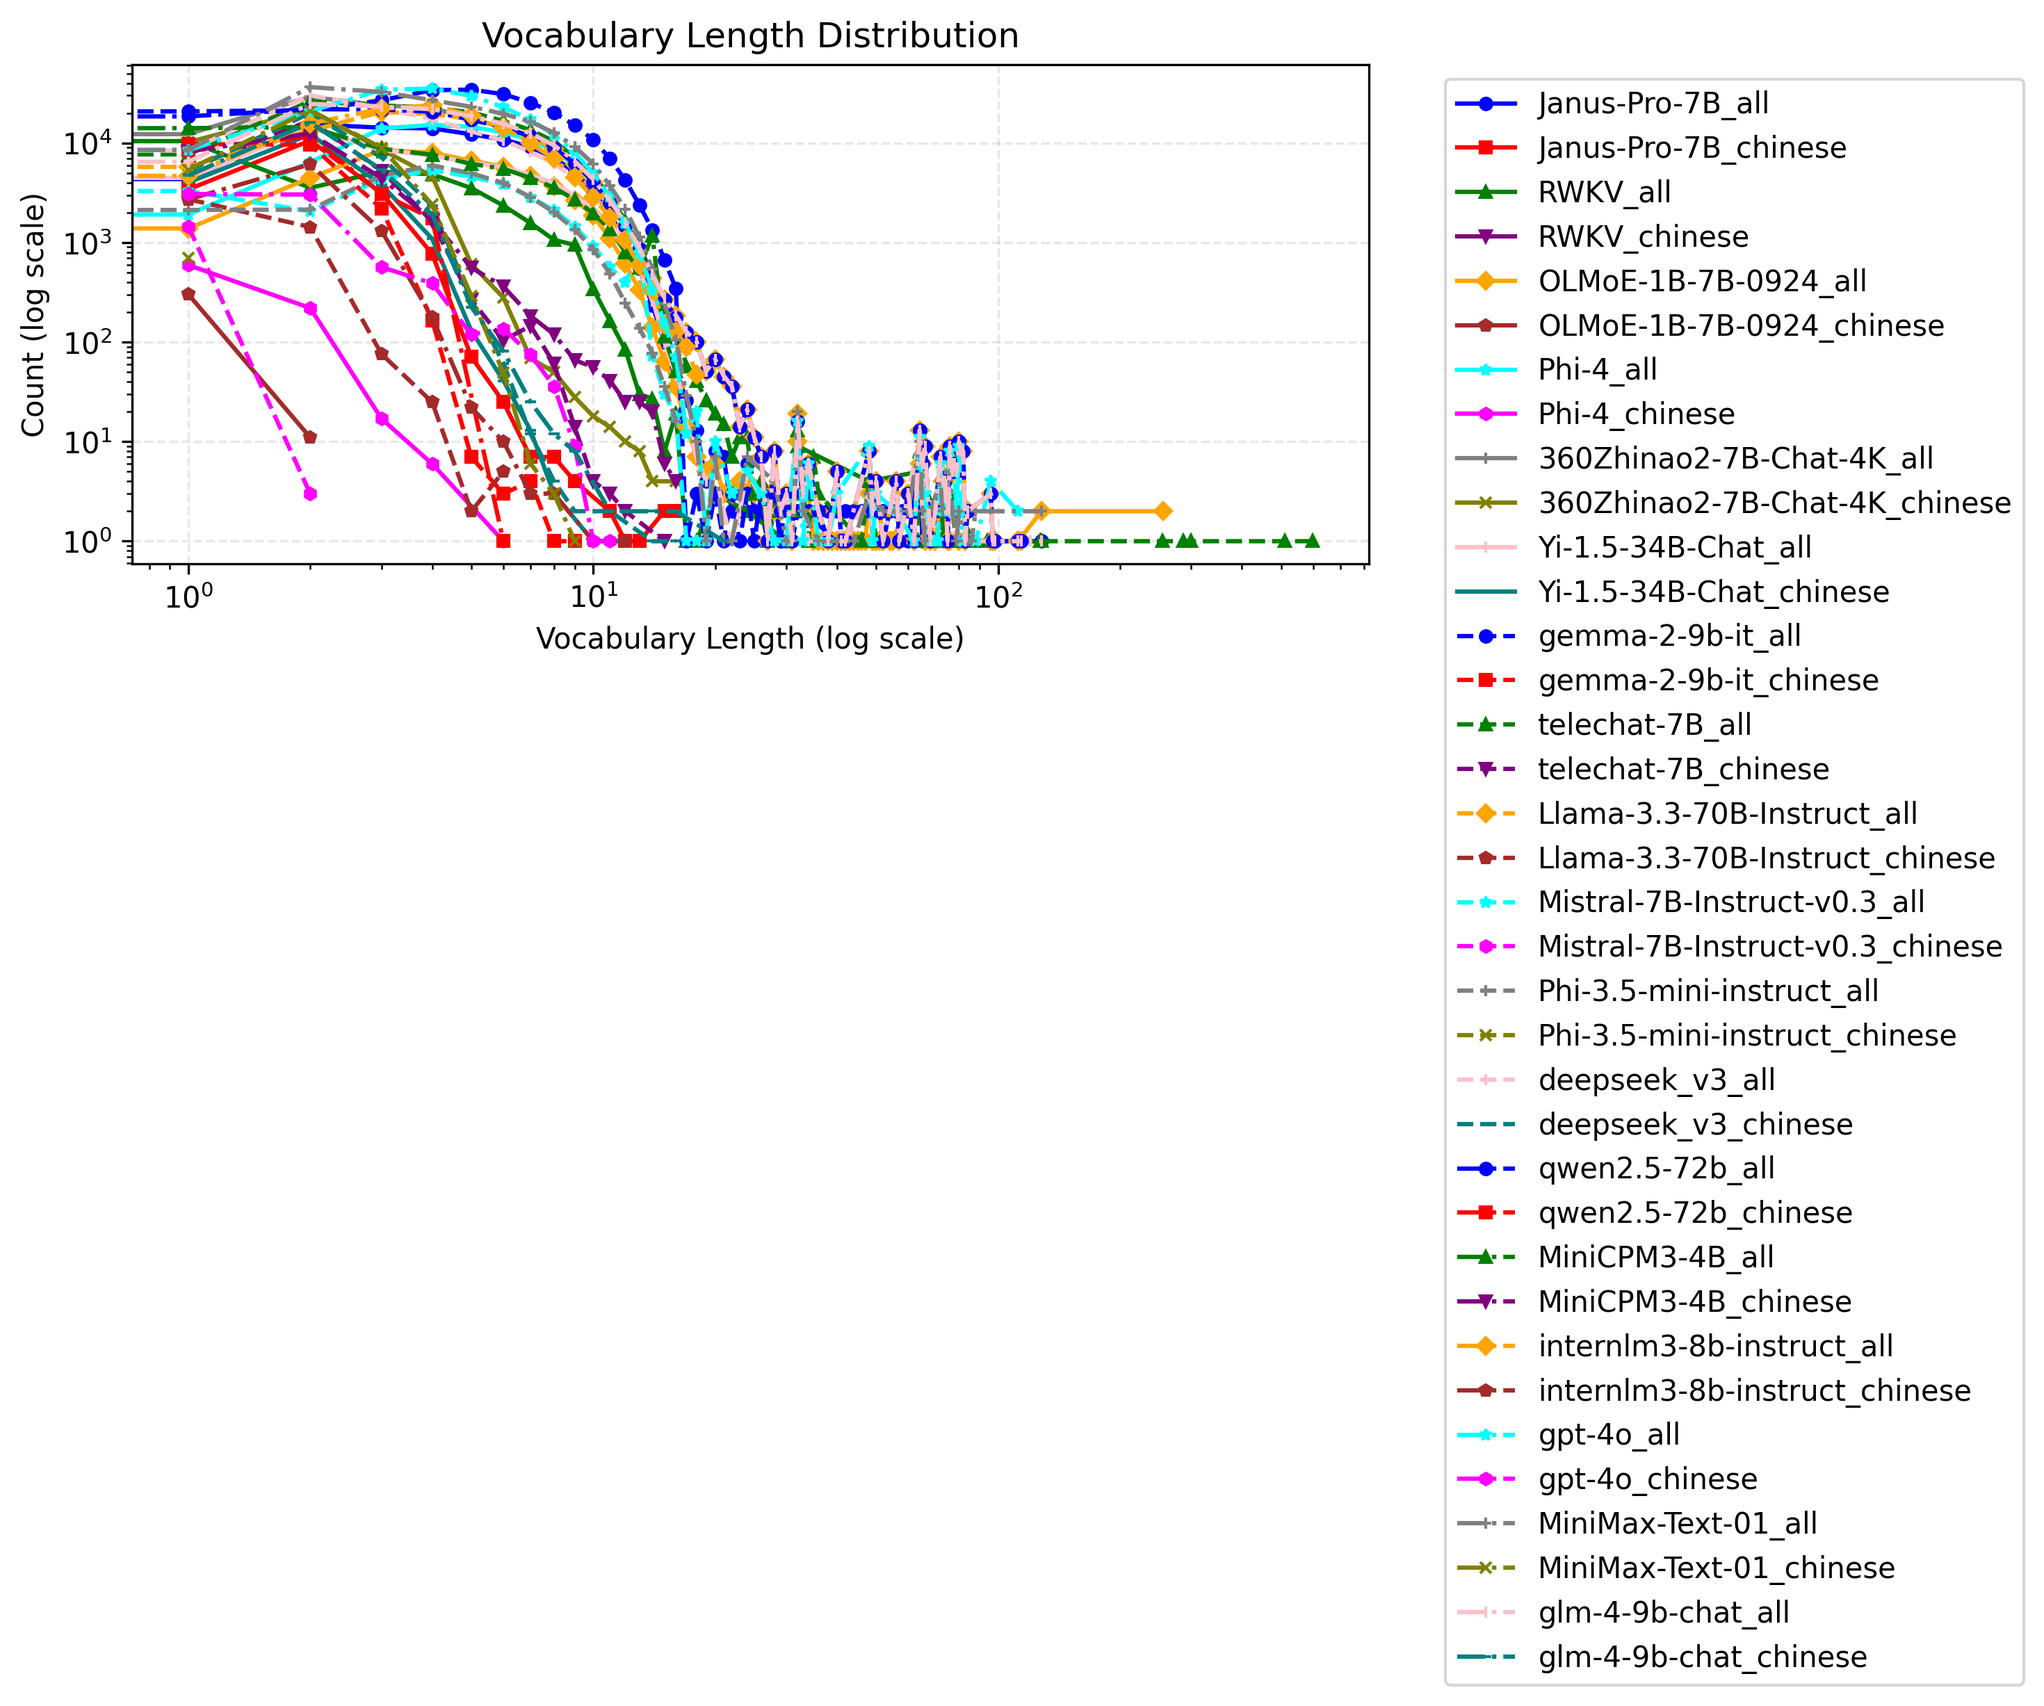
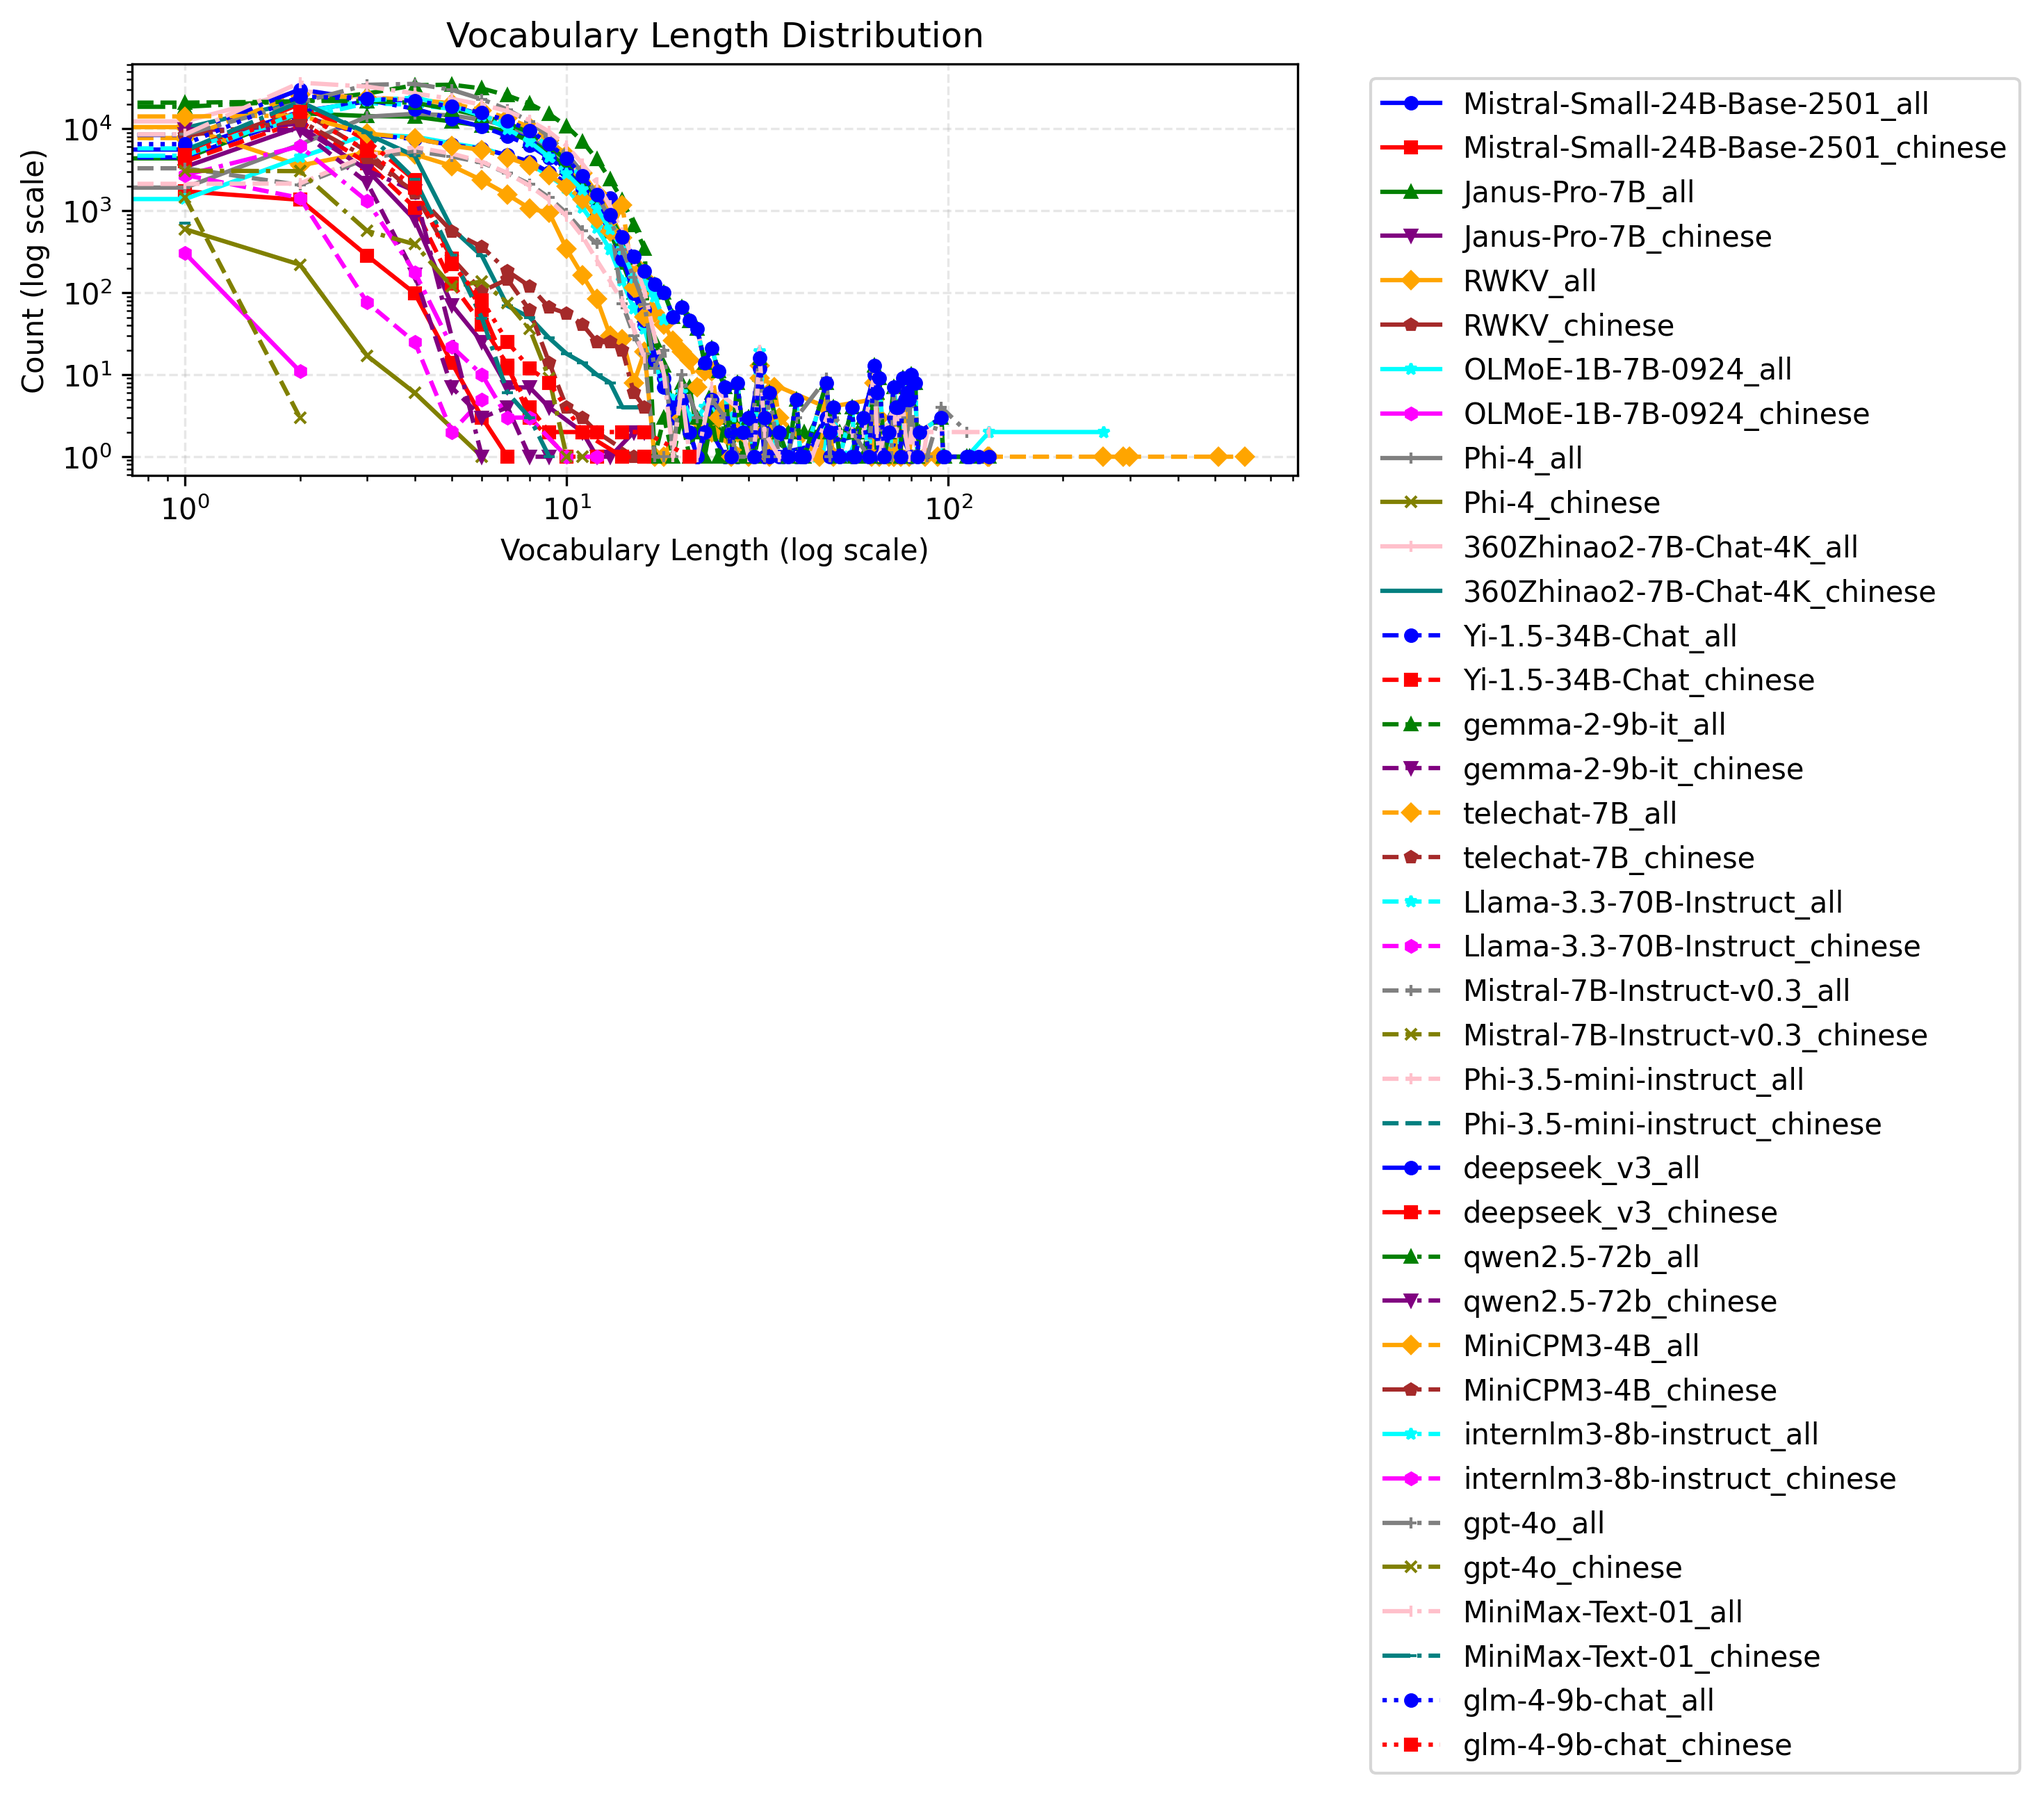
add Mistral-Small-24B-Base-2501

Changed region(s): [[0.0, 0.0, 0.9922, 0.991], [0.031, 0.2478, 0.093, 0.3407]]

diff --git a/vocab_analyzer.py b/vocab_analyzer.py
@@ -11,7 +11,7 @@ from lang_detect import detect_lang
 from plot_markdown import plot_length_distribution, write_lang_count_markdown
 
 # Model list
-models = ['Janus-Pro-7B', 'RWKV', 'OLMoE-1B-7B-0924', 'Phi-4',
+models = ['Mistral-Small-24B-Base-2501','Janus-Pro-7B', 'RWKV', 'OLMoE-1B-7B-0924', 'Phi-4',
     '360Zhinao2-7B-Chat-4K', 'Yi-1.5-34B-Chat', 'gemma-2-9b-it', 'telechat-7B',
     'Llama-3.3-70B-Instruct', 'Mistral-7B-Instruct-v0.3', 'Phi-3.5-mini-instruct',
     'deepseek_v3', 'qwen2.5-72b', 'MiniCPM3-4B', 'internlm3-8b-instruct',

diff --git a/大模型词汇语言分布.md b/大模型词汇语言分布.md
@@ -1,33 +1,33 @@
 # 大模型词汇语言分布
 
-| Language | 360Zhinao2-7B-Chat-4K | Janus-Pro-7B | Llama-3.3-70B-Instruct | MiniCPM3-4B | MiniMax-Text-01 | Mistral-7B-Instruct-v0.3 | OLMoE-1B-7B-0924 | Phi-3.5-mini-instruct | Phi-4 | RWKV | Yi-1.5-34B-Chat | deepseek_v3 | gemma-2-9b-it | glm-4-9b-chat | gpt-4o | internlm3-8b-instruct | qwen2.5-72b | telechat-7B |
-|----------|---|---|---|---|---|---|---|---|---|---|---|---|---|---|---|---|---|---|
-| NULL | 10463 | 3976 | 11305 | 15123 | 10557 | 8685 | 3353 | 8857 | 7191 | 34587 | 11009 | 9060 | 64736 | 8115 | 30897 | 30263 | 14698 | 15827 |
-| arabic | 1655 | 58 | 3816 | 49 | 6191 | 74 | 98 | 64 | 134 | 109 | 23 | 3221 | 6158 | 2026 | 8098 | 13126 | 3666 | 35 |
-| chinese | 46093 | 18047 | 4265 | 28322 | 38420 | 1459 | 313 | 700 | 839 | 8244 | 21356 | 35184 | 21762 | 28478 | 7449 | 10364 | 24966 | 29919 |
-| code | 17785 | 834 | 17797 | 1184 | 6179 | 147 | 130 | 144 | 17785 | 219 | 1189 | 2448 | 5062 | 17787 | 10972 | 499 | 17785 | 2348 |
-| control | 3489 | 328 | 3565 | 4 | 1809 | 1 | 196 | 1 | 3488 | 81 | 9 | 1011 | 64 | 3489 | 3381 | 0 | 3488 | 790 |
-| digits | 10 | 10 | 1110 | 10 | 1110 | 10 | 2036 | 10 | 1110 | 110 | 10 | 1110 | 10 | 541 | 1110 | 10 | 10 | 2619 |
-| english | 59483 | 59897 | 59685 | 24733 | 82035 | 16376 | 38521 | 13710 | 57900 | 15935 | 25434 | 54826 | 88122 | 61741 | 85448 | 26684 | 58171 | 67046 |
-| french | 2834 | 1914 | 2254 | 844 | 8635 | 872 | 1194 | 1251 | 2204 | 676 | 871 | 2413 | 8404 | 3034 | 5667 | 1324 | 2427 | 9924 |
-| german | 2915 | 1546 | 2227 | 695 | 3700 | 881 | 988 | 1469 | 2127 | 551 | 725 | 2402 | 9500 | 3460 | 6568 | 5605 | 2284 | 2922 |
-| greek | 565 | 93 | 1386 | 147 | 137 | 62 | 184 | 65 | 52 | 118 | 28 | 625 | 1248 | 838 | 1509 | 79 | 136 | 195 |
-| hebrew | 284 | 21 | 288 | 15 | 243 | 38 | 30 | 36 | 285 | 40 | 4 | 712 | 1313 | 284 | 2596 | 14 | 3424 | 157 |
-| indonesian | 349 | 244 | 363 | 102 | 2044 | 73 | 134 | 72 | 322 | 78 | 99 | 540 | 1997 | 360 | 1051 | 244 | 323 | 3716 |
-| italian | 1873 | 1744 | 1710 | 635 | 3428 | 629 | 879 | 824 | 1625 | 433 | 686 | 1806 | 6350 | 2300 | 3463 | 1098 | 1672 | 3573 |
-| japanese | 1012 | 119 | 1201 | 186 | 12080 | 170 | 217 | 166 | 291 | 486 | 102 | 970 | 7332 | 1046 | 962 | 111 | 2185 | 363 |
-| korean | 1457 | 23 | 2258 | 94 | 4537 | 347 | 27 | 113 | 290 | 1044 | 29 | 1132 | 2319 | 557 | 2385 | 6407 | 3483 | 360 |
-| malay | 89 | 66 | 102 | 27 | 653 | 23 | 33 | 21 | 81 | 22 | 23 | 178 | 682 | 95 | 355 | 113 | 83 | 1174 |
-| persian | 91 | 21 | 84 | 13 | 73 | 15 | 17 | 17 | 84 | 12 | 14 | 44 | 68 | 88 | 101 | 24 | 84 | 63 |
-| portuguese | 1077 | 880 | 936 | 264 | 4117 | 275 | 396 | 387 | 889 | 269 | 271 | 970 | 3827 | 1262 | 3244 | 650 | 1038 | 5023 |
-| russian | 2421 | 7310 | 6698 | 232 | 4243 | 1792 | 468 | 3012 | 910 | 1700 | 1236 | 5388 | 13398 | 9926 | 14451 | 16220 | 4307 | 952 |
-| serbian | 318 | 82 | 315 | 42 | 368 | 39 | 45 | 41 | 278 | 32 | 36 | 218 | 264 | 305 | 511 | 483 | 280 | 250 |
-| spanish | 2414 | 2523 | 1935 | 552 | 8665 | 612 | 793 | 846 | 1861 | 469 | 548 | 1954 | 8791 | 2793 | 5489 | 1115 | 2006 | 8940 |
-| thai | 58 | 1 | 1386 | 12 | 40 | 57 | 28 | 44 | 58 | 58 | 3 | 1247 | 1287 | 58 | 1561 | 9081 | 2570 | 48 |
-| turkish | 367 | 200 | 2098 | 126 | 508 | 100 | 157 | 118 | 328 | 158 | 256 | 288 | 1938 | 766 | 1696 | 325 | 1321 | 731 |
-| ukrainian | 97 | 21 | 99 | 7 | 128 | 8 | 8 | 7 | 96 | 7 | 8 | 63 | 49 | 100 | 116 | 22 | 100 | 109 |
-| vietnamese | 134 | 42 | 1117 | 22 | 100 | 23 | 35 | 25 | 124 | 91 | 23 | 190 | 1319 | 803 | 920 | 4708 | 1136 | 3051 |
-| Total | 157333 | 100000 | 128000 | 73440 | 200000 | 32768 | 50280 | 32000 | 100352 | 65529 | 63992 | 128000 | 256000 | 150252 | 200000 | 128569 | 151643 | 160135 |
+| Language | 360Zhinao2-7B-Chat-4K | Janus-Pro-7B | Llama-3.3-70B-Instruct | MiniCPM3-4B | MiniMax-Text-01 | Mistral-7B-Instruct-v0.3 | Mistral-Small-24B-Base-2501 | OLMoE-1B-7B-0924 | Phi-3.5-mini-instruct | Phi-4 | RWKV | Yi-1.5-34B-Chat | deepseek_v3 | gemma-2-9b-it | glm-4-9b-chat | gpt-4o | internlm3-8b-instruct | qwen2.5-72b | telechat-7B |
+|----------|---|---|---|---|---|---|---|---|---|---|---|---|---|---|---|---|---|---|---|
+| NULL | 10463 | 3976 | 11305 | 15123 | 10557 | 8685 | 16962 | 3353 | 8857 | 7191 | 34587 | 11009 | 9060 | 64736 | 8115 | 30897 | 30263 | 14698 | 15827 |
+| arabic | 1655 | 58 | 3816 | 49 | 6191 | 74 | 9481 | 98 | 64 | 134 | 109 | 23 | 3221 | 6158 | 2026 | 8098 | 13126 | 3666 | 35 |
+| chinese | 46093 | 18047 | 4265 | 28322 | 38420 | 1459 | 3482 | 313 | 700 | 839 | 8244 | 21356 | 35184 | 21762 | 28478 | 7449 | 10364 | 24966 | 29919 |
+| code | 17785 | 834 | 17797 | 1184 | 6179 | 147 | 3805 | 130 | 144 | 17785 | 219 | 1189 | 2448 | 5062 | 17787 | 10972 | 499 | 17785 | 2348 |
+| control | 3489 | 328 | 3565 | 4 | 1809 | 1 | 1383 | 196 | 1 | 3488 | 81 | 9 | 1011 | 64 | 3489 | 3381 | 0 | 3488 | 790 |
+| digits | 10 | 10 | 1110 | 10 | 1110 | 10 | 10 | 2036 | 10 | 1110 | 110 | 10 | 1110 | 10 | 541 | 1110 | 10 | 10 | 2619 |
+| english | 59483 | 59897 | 59685 | 24733 | 82035 | 16376 | 55428 | 38521 | 13710 | 57900 | 15935 | 25434 | 54826 | 88122 | 61741 | 85448 | 26684 | 58171 | 67046 |
+| french | 2834 | 1914 | 2254 | 844 | 8635 | 872 | 5389 | 1194 | 1251 | 2204 | 676 | 871 | 2413 | 8404 | 3034 | 5667 | 1324 | 2427 | 9924 |
+| german | 2915 | 1546 | 2227 | 695 | 3700 | 881 | 5064 | 988 | 1469 | 2127 | 551 | 725 | 2402 | 9500 | 3460 | 6568 | 5605 | 2284 | 2922 |
+| greek | 565 | 93 | 1386 | 147 | 137 | 62 | 1511 | 184 | 65 | 52 | 118 | 28 | 625 | 1248 | 838 | 1509 | 79 | 136 | 195 |
+| hebrew | 284 | 21 | 288 | 15 | 243 | 38 | 1089 | 30 | 36 | 285 | 40 | 4 | 712 | 1313 | 284 | 2596 | 14 | 3424 | 157 |
+| indonesian | 349 | 244 | 363 | 102 | 2044 | 73 | 602 | 134 | 72 | 322 | 78 | 99 | 540 | 1997 | 360 | 1051 | 244 | 323 | 3716 |
+| italian | 1873 | 1744 | 1710 | 635 | 3428 | 629 | 2906 | 879 | 824 | 1625 | 433 | 686 | 1806 | 6350 | 2300 | 3463 | 1098 | 1672 | 3573 |
+| japanese | 1012 | 119 | 1201 | 186 | 12080 | 170 | 1745 | 217 | 166 | 291 | 486 | 102 | 970 | 7332 | 1046 | 962 | 111 | 2185 | 363 |
+| korean | 1457 | 23 | 2258 | 94 | 4537 | 347 | 4450 | 27 | 113 | 290 | 1044 | 29 | 1132 | 2319 | 557 | 2385 | 6407 | 3483 | 360 |
+| malay | 89 | 66 | 102 | 27 | 653 | 23 | 218 | 33 | 21 | 81 | 22 | 23 | 178 | 682 | 95 | 355 | 113 | 83 | 1174 |
+| persian | 91 | 21 | 84 | 13 | 73 | 15 | 52 | 17 | 17 | 84 | 12 | 14 | 44 | 68 | 88 | 101 | 24 | 84 | 63 |
+| portuguese | 1077 | 880 | 936 | 264 | 4117 | 275 | 2741 | 396 | 387 | 889 | 269 | 271 | 970 | 3827 | 1262 | 3244 | 650 | 1038 | 5023 |
+| russian | 2421 | 7310 | 6698 | 232 | 4243 | 1792 | 7832 | 468 | 3012 | 910 | 1700 | 1236 | 5388 | 13398 | 9926 | 14451 | 16220 | 4307 | 952 |
+| serbian | 318 | 82 | 315 | 42 | 368 | 39 | 356 | 45 | 41 | 278 | 32 | 36 | 218 | 264 | 305 | 511 | 483 | 280 | 250 |
+| spanish | 2414 | 2523 | 1935 | 552 | 8665 | 612 | 4059 | 793 | 846 | 1861 | 469 | 548 | 1954 | 8791 | 2793 | 5489 | 1115 | 2006 | 8940 |
+| thai | 58 | 1 | 1386 | 12 | 40 | 57 | 563 | 28 | 44 | 58 | 58 | 3 | 1247 | 1287 | 58 | 1561 | 9081 | 2570 | 48 |
+| turkish | 367 | 200 | 2098 | 126 | 508 | 100 | 1018 | 157 | 118 | 328 | 158 | 256 | 288 | 1938 | 766 | 1696 | 325 | 1321 | 731 |
+| ukrainian | 97 | 21 | 99 | 7 | 128 | 8 | 80 | 8 | 7 | 96 | 7 | 8 | 63 | 49 | 100 | 116 | 22 | 100 | 109 |
+| vietnamese | 134 | 42 | 1117 | 22 | 100 | 23 | 846 | 35 | 25 | 124 | 91 | 23 | 190 | 1319 | 803 | 920 | 4708 | 1136 | 3051 |
+| Total | 157333 | 100000 | 128000 | 73440 | 200000 | 32768 | 131072 | 50280 | 32000 | 100352 | 65529 | 63992 | 128000 | 256000 | 150252 | 200000 | 128569 | 151643 | 160135 |
 
 
 说明：
